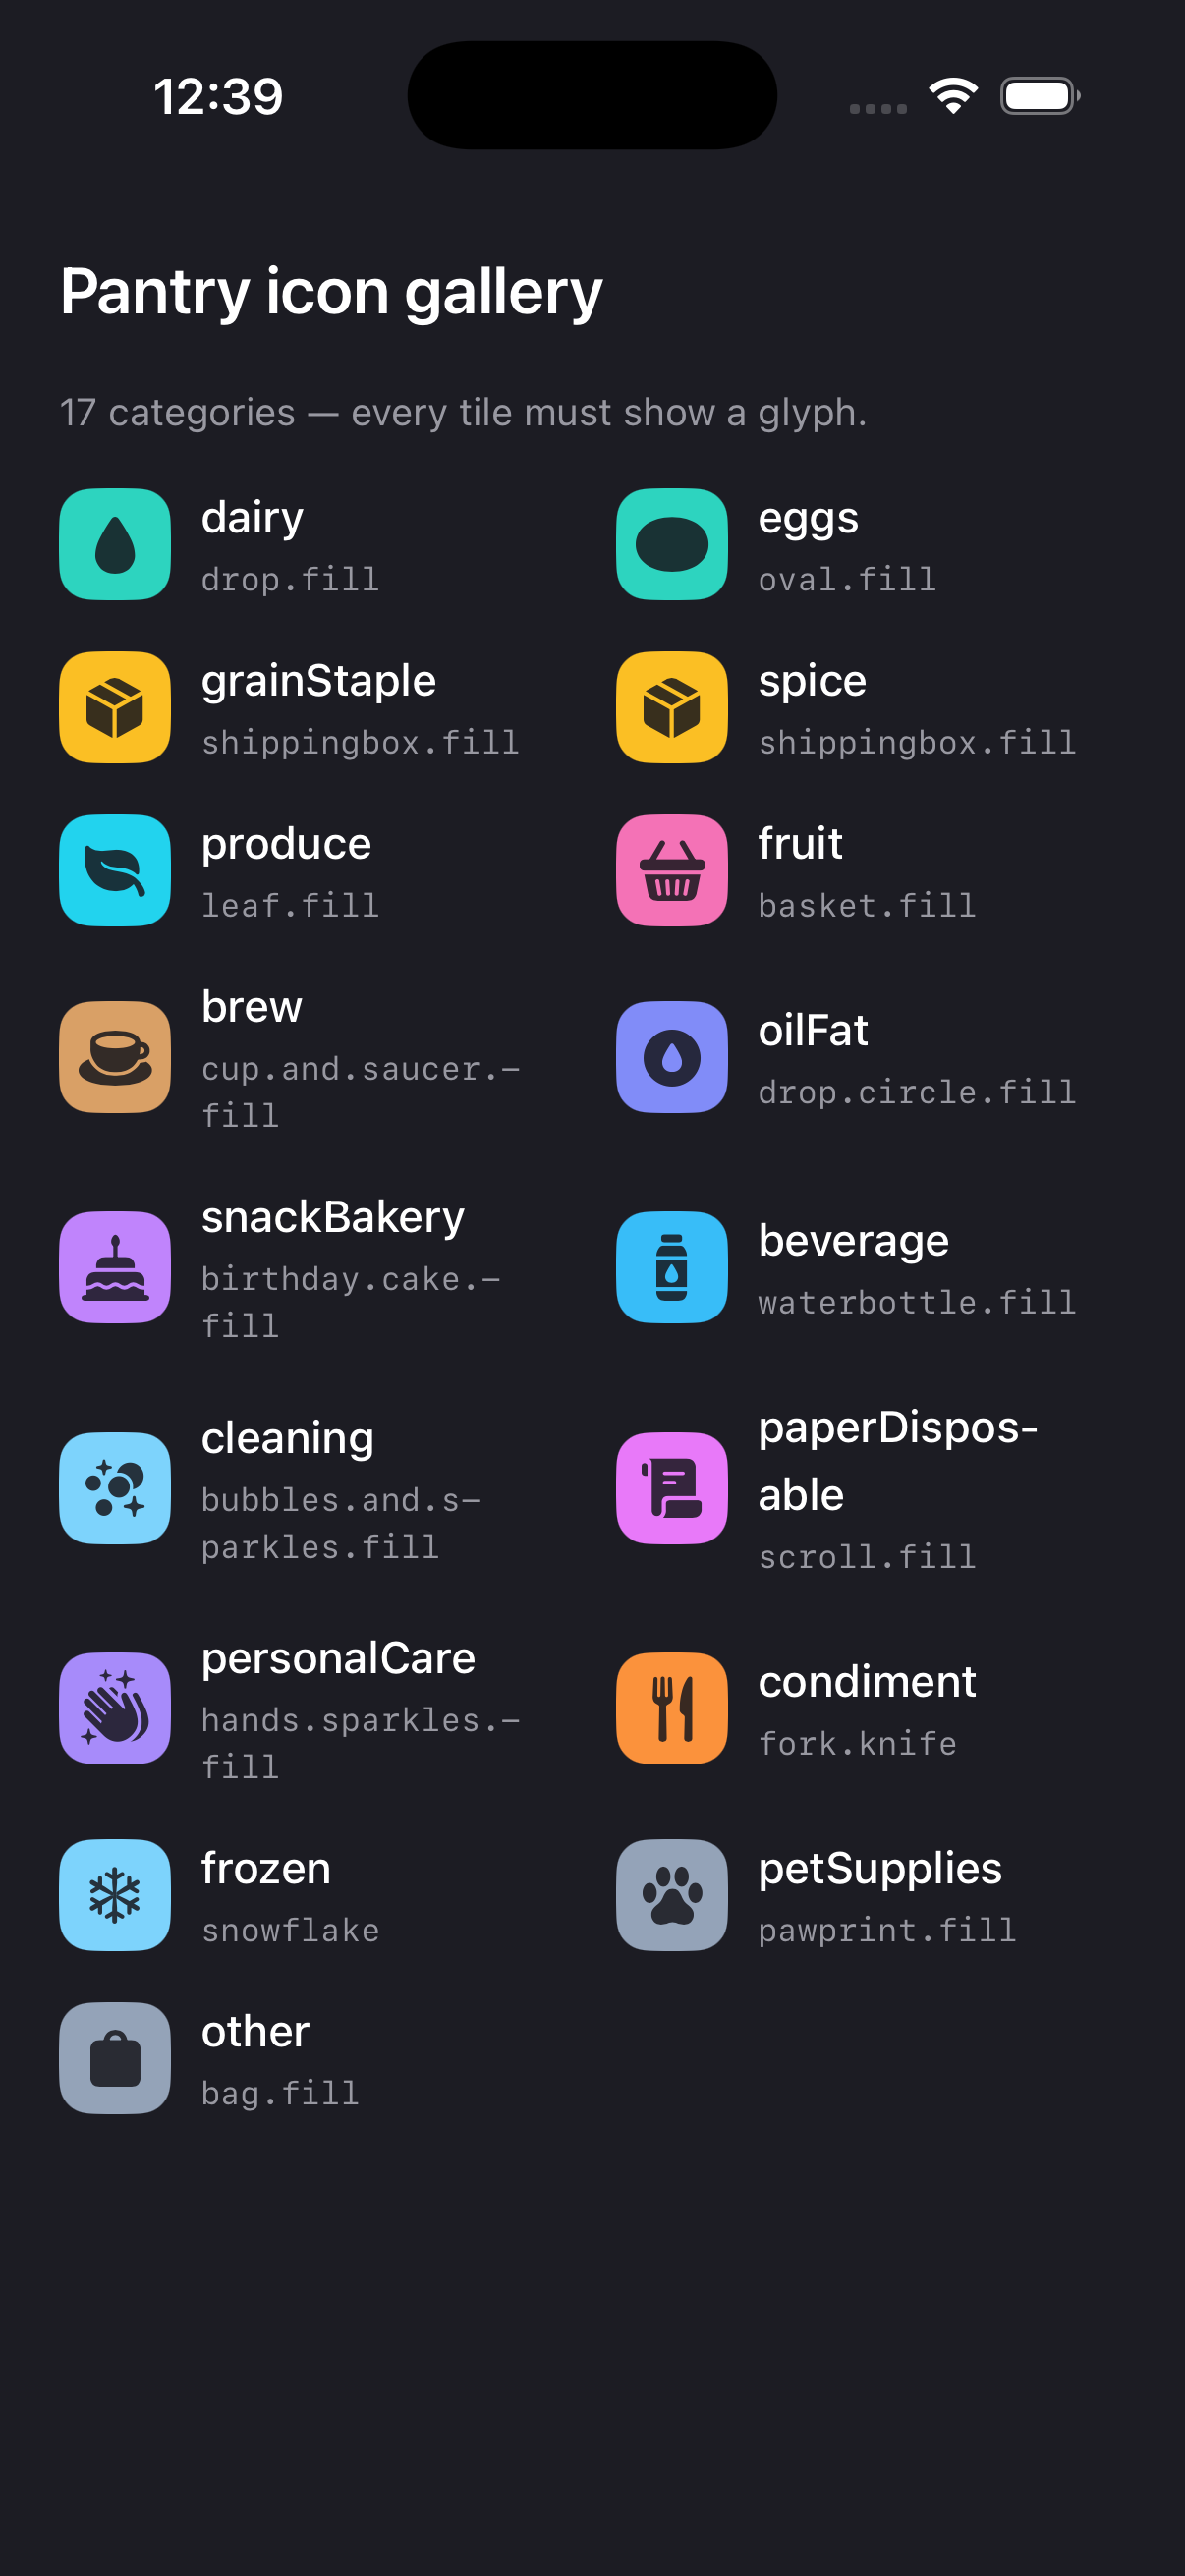
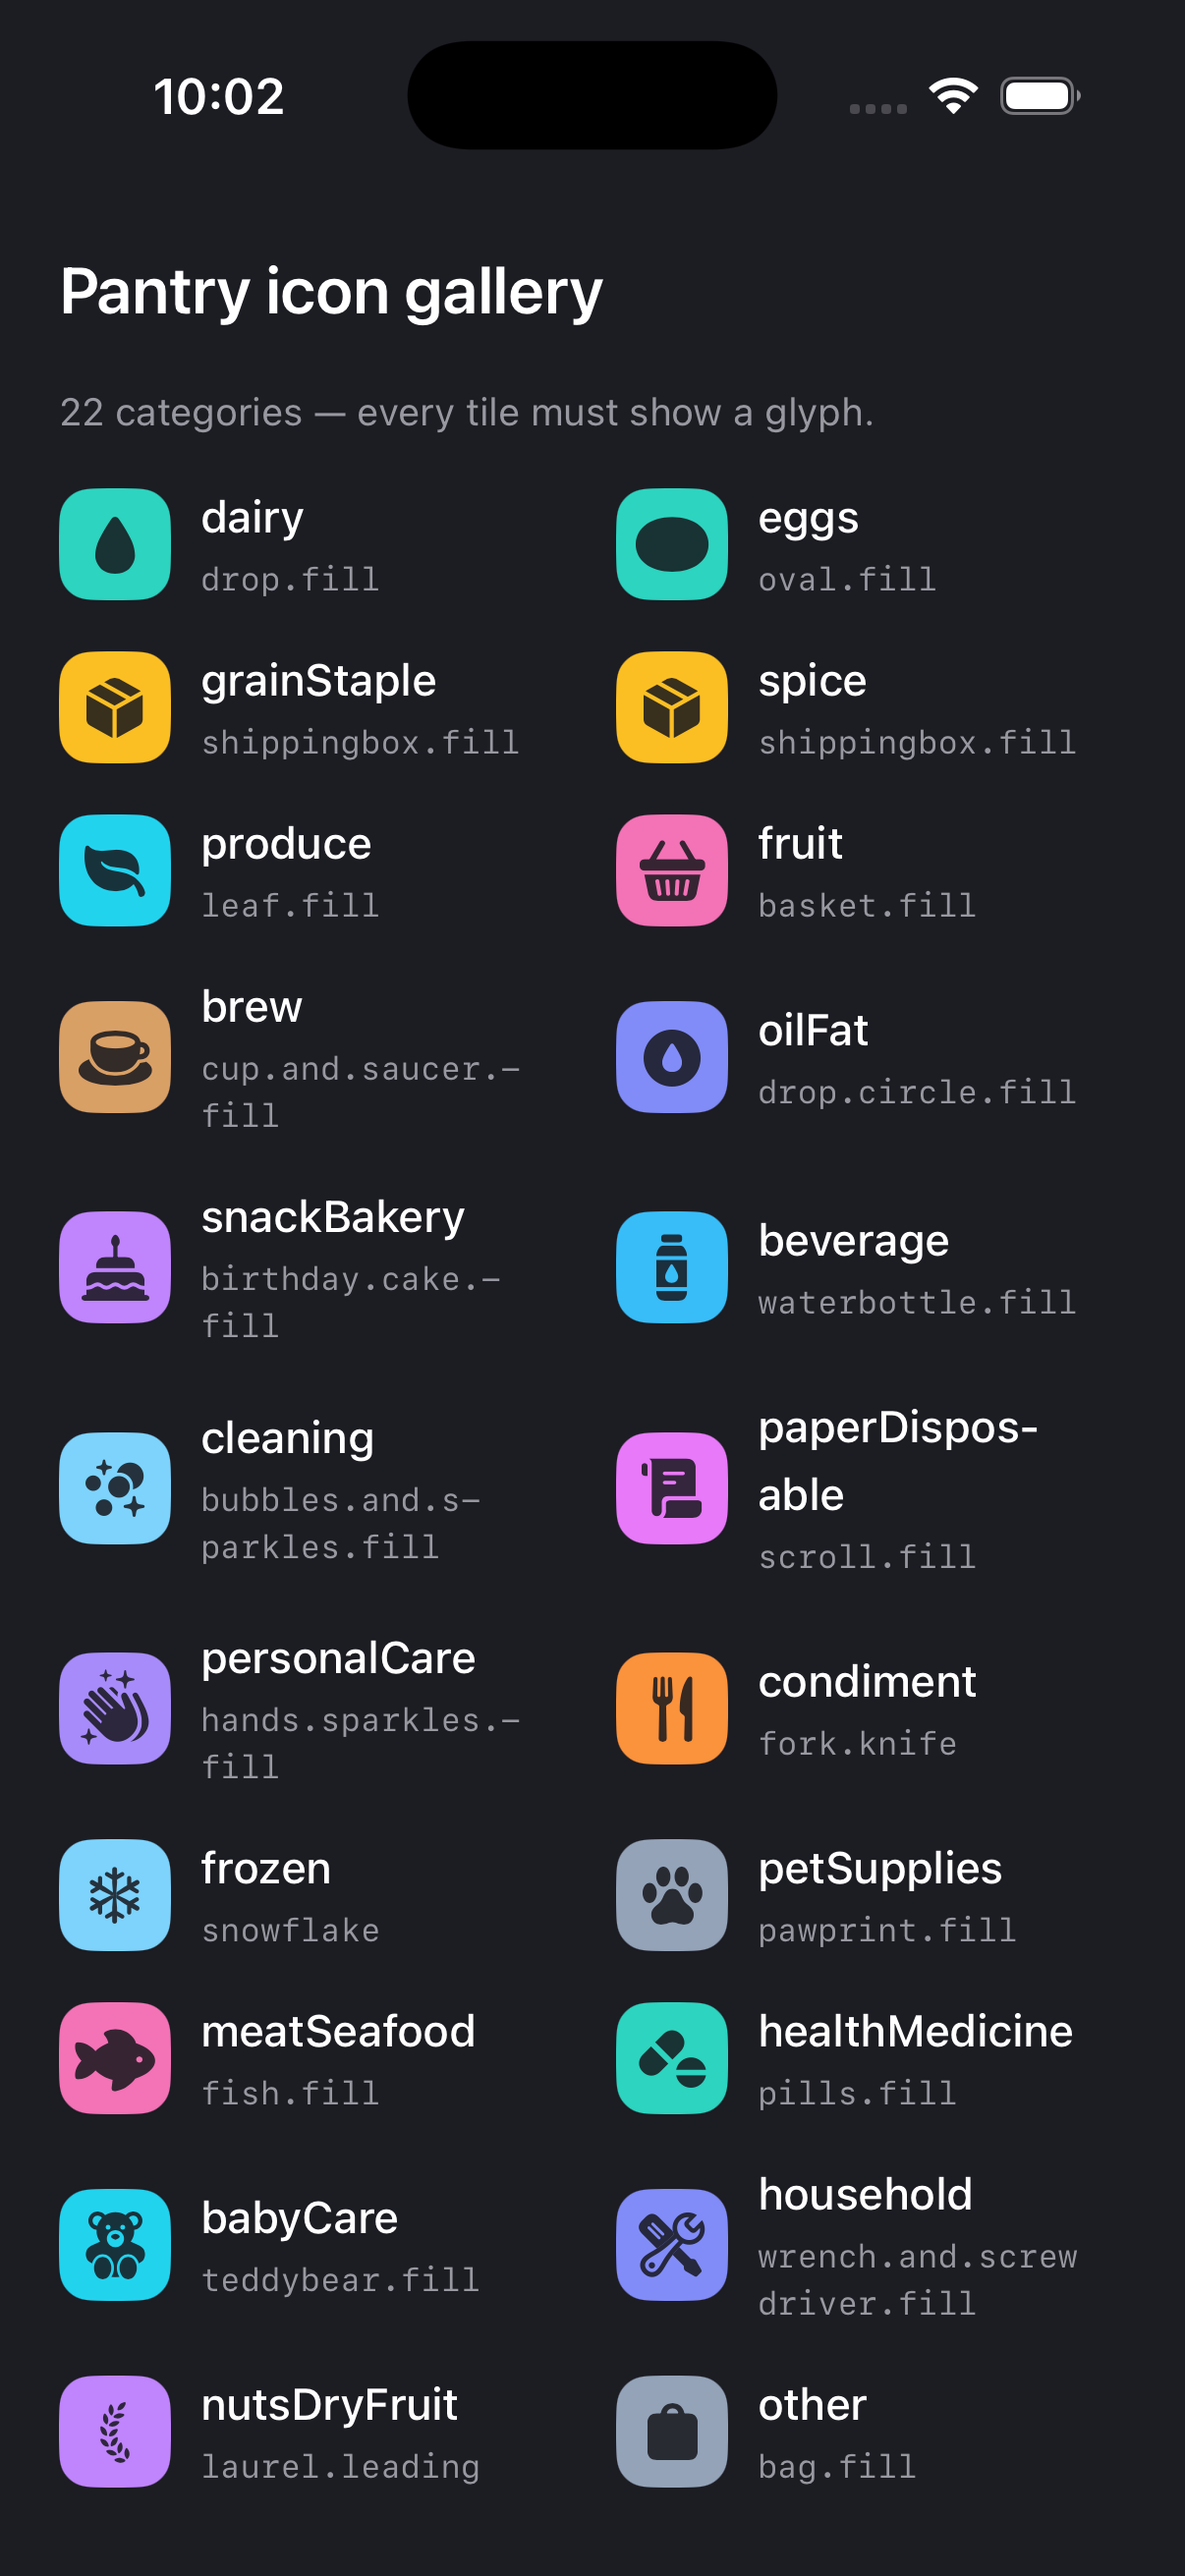
feat(22): expand pantry categories 17 -> 22 (user request)
User: the set was too limited. Added meatSeafood (fish.fill), healthMedicine
(pills.fill), babyCare (teddybear.fill), household (wrench.and.screwdriver.fill),
and nutsDryFruit (laurel.leading) — appended, never reordered, so the device-local
cache keeps resolving existing raw-value entries.

The @user twin gains the same 5 cases (parity test now pins 22), the prompt
legend describes each new category with household examples, and the two count-lock
tests move 17 -> 22 as a deliberate reviewed edit.

All 22 tiles verified rendering in both themes via the -iconGallery screenshot pass
(galleries regenerated). Four new symbols are clean fits; nutsDryFruit's
laurel.leading renders but reads as a botanical branch, not obviously nuts — flagged
for the user, SF Symbols has no clean nut/dry-fruit glyph.

Not changed: spice still shares grainStaple's exact tile (a legacy category — altering
it changes shipped Sugar/Salt/Masala rows), re-surfaced for the user.

Full suite: 715 tests in 96 suites, 0 failures (serial).

Claude-Session: https://claude.ai/code/session_017cqEvYR5rLhMheGwbjXBu5

diff --git a/MyHomeApp/Features/Kitchen/PantryCategory.swift b/MyHomeApp/Features/Kitchen/PantryCategory.swift
@@ -40,6 +40,13 @@ enum PantryCategory: String, CaseIterable, Sendable {
     case condiment = "condiment"
     case frozen = "frozen"
     case petSupplies = "petSupplies"
+    // Added 2026-07-22 — user asked why the set was so small. Appended (never reordered) so the
+    // 22-02 device-local cache, which stores the raw value, keeps resolving old entries.
+    case meatSeafood = "meatSeafood"
+    case healthMedicine = "healthMedicine"
+    case babyCare = "babyCare"
+    case household = "household"
+    case nutsDryFruit = "nutsDryFruit"
     case other = "other"
 
     /// The tile appearance for a category. TOTAL by construction — exhaustive `switch`, no
@@ -82,6 +89,15 @@ enum PantryCategory: String, CaseIterable, Sendable {
         case .condiment:       return ("fork.knife", DesignTokens.catDining)
         case .frozen:          return ("snowflake", DesignTokens.catUtilities)
         case .petSupplies:     return ("pawprint.fill", DesignTokens.catOther)
+
+        // --- Added 2026-07-22 (user request: "why is it this limited"). Symbols are CANDIDATES
+        // until the gallery screenshot pass confirms each renders — a non-existent SF Symbol draws
+        // nothing and raises no error (the 20-03 bug), so an unverified name here is a blank tile.
+        case .meatSeafood:     return ("fish.fill", DesignTokens.catFuel)
+        case .healthMedicine:  return ("pills.fill", DesignTokens.catGroceries)
+        case .babyCare:        return ("teddybear.fill", DesignTokens.catSubscriptions)
+        case .household:       return ("wrench.and.screwdriver.fill", DesignTokens.catRent)
+        case .nutsDryFruit:    return ("laurel.leading", DesignTokens.catEntertainment)
 
         // --- Terminal fallback: the neutral bag tile an unmatched name has always produced.
         case .other:           return ("bag.fill", DesignTokens.catOther)

diff --git a/MyHomeTests/PantryCategoryTests.swift b/MyHomeTests/PantryCategoryTests.swift
@@ -17,14 +17,21 @@ struct PantryCategoryTests {
 
     // MARK: - Closed set
 
-    @Test("The category set is exactly the 17 cases the AI-SPEC names")
+    // The AI-SPEC opened with 17 cases; five more (meatSeafood, healthMedicine, babyCare,
+    // household, nutsDryFruit) were added 2026-07-22 at the user's request — the pantry was too
+    // coarse. The count stays PINNED (not `>= 17`) so any future case add/remove is a deliberate,
+    // reviewed edit here rather than a silent drift, and so it stays in lockstep with the
+    // @Generable twin's parity test.
+    @Test("The category set is exactly the 22 named cases")
     func categorySetIsClosedAndComplete() {
-        #expect(PantryCategory.allCases.count == 17)
+        #expect(PantryCategory.allCases.count == 22)
 
         let expected: Set<String> = [
             "dairy", "eggs", "grainStaple", "spice", "produce", "fruit", "brew", "oilFat",
             "snackBakery", "beverage", "cleaning", "paperDisposable", "personalCare",
-            "condiment", "frozen", "petSupplies", "other"
+            "condiment", "frozen", "petSupplies",
+            "meatSeafood", "healthMedicine", "babyCare", "household", "nutsDryFruit",
+            "other"
         ]
         #expect(Set(PantryCategory.allCases.map(\.rawValue)) == expected)
     }

diff --git a/MyHomeApp/Features/Kitchen/PantryIconClassifier.swift b/MyHomeApp/Features/Kitchen/PantryIconClassifier.swift
@@ -61,6 +61,11 @@ enum GeneratedPantryCategory: String, CaseIterable {
     case condiment = "condiment"
     case frozen = "frozen"
     case petSupplies = "petSupplies"
+    case meatSeafood = "meatSeafood"
+    case healthMedicine = "healthMedicine"
+    case babyCare = "babyCare"
+    case household = "household"
+    case nutsDryFruit = "nutsDryFruit"
     case other = "other"
 
     /// The plain-enum equivalent. Non-nil for every case while the parity test passes.
@@ -124,6 +129,12 @@ enum PantryIconPromptBuilder {
         - condiment: sauces, pickles, jams, ketchup, mayonnaise, vinegar, honey
         - frozen: frozen foods — frozen peas, ice cream, frozen parathas
         - petSupplies: pet food and pet supplies
+        - meatSeafood: chicken, mutton, fish, prawns, eggs excepted (eggs is its own category)
+        - healthMedicine: medicines, tablets, supplements, vitamins, first-aid, ORS
+        - babyCare: diapers, baby food, baby formula, baby wipes, baby lotion
+        - household: non-food household goods — batteries, bulbs, matches, candles, tools, \
+        garbage bags, mosquito repellent
+        - nutsDryFruit: nuts and dried fruit — almonds, cashews, raisins, dates, walnuts, pistachios
         - other: only when the name is empty, meaningless, or genuinely fits nothing above
 
         Answer with the one category that fits best. Use other only as a last resort — \

diff --git a/MyHomeTests/PantryIconClassifierTests.swift b/MyHomeTests/PantryIconClassifierTests.swift
@@ -72,7 +72,7 @@ struct PantryIconClassifierTests {
         let plain = Set(PantryCategory.allCases.map(\.rawValue))
 
         #expect(generated == plain)
-        #expect(generated.count == 17)
+        #expect(generated.count == 22)
     }
 
     @available(iOS 26, *)